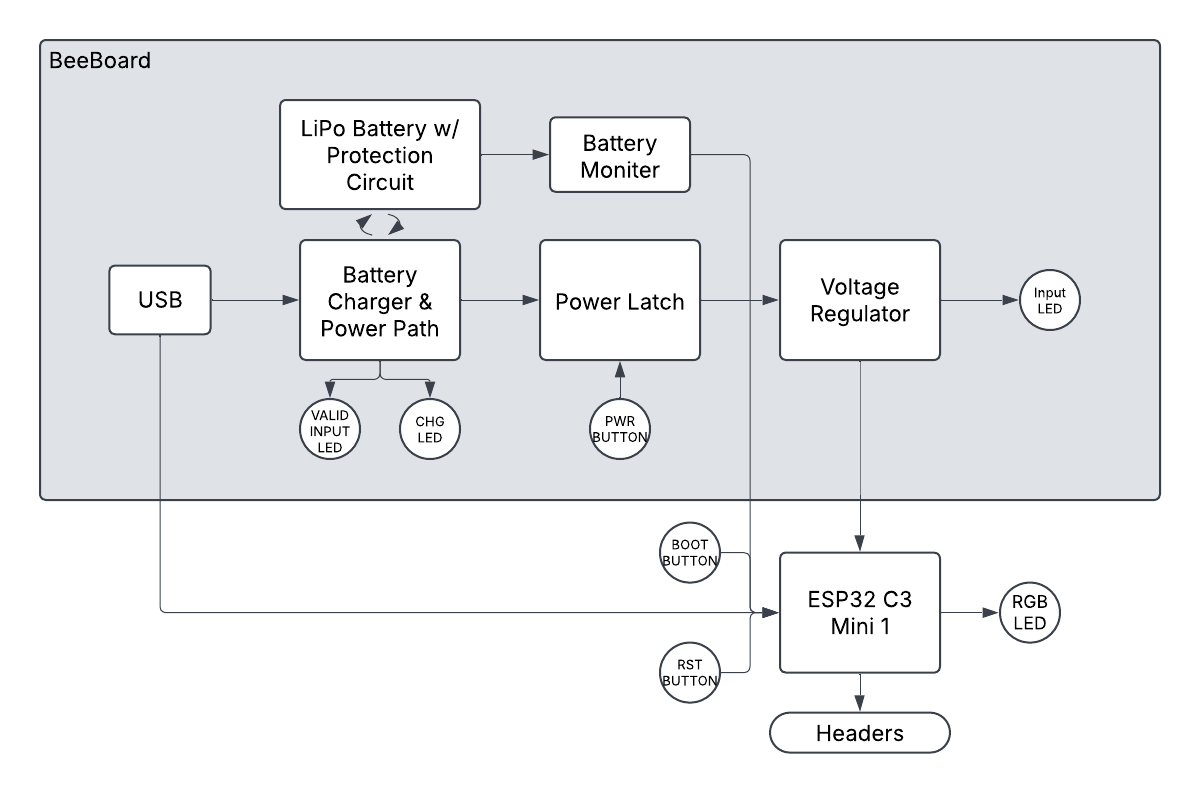
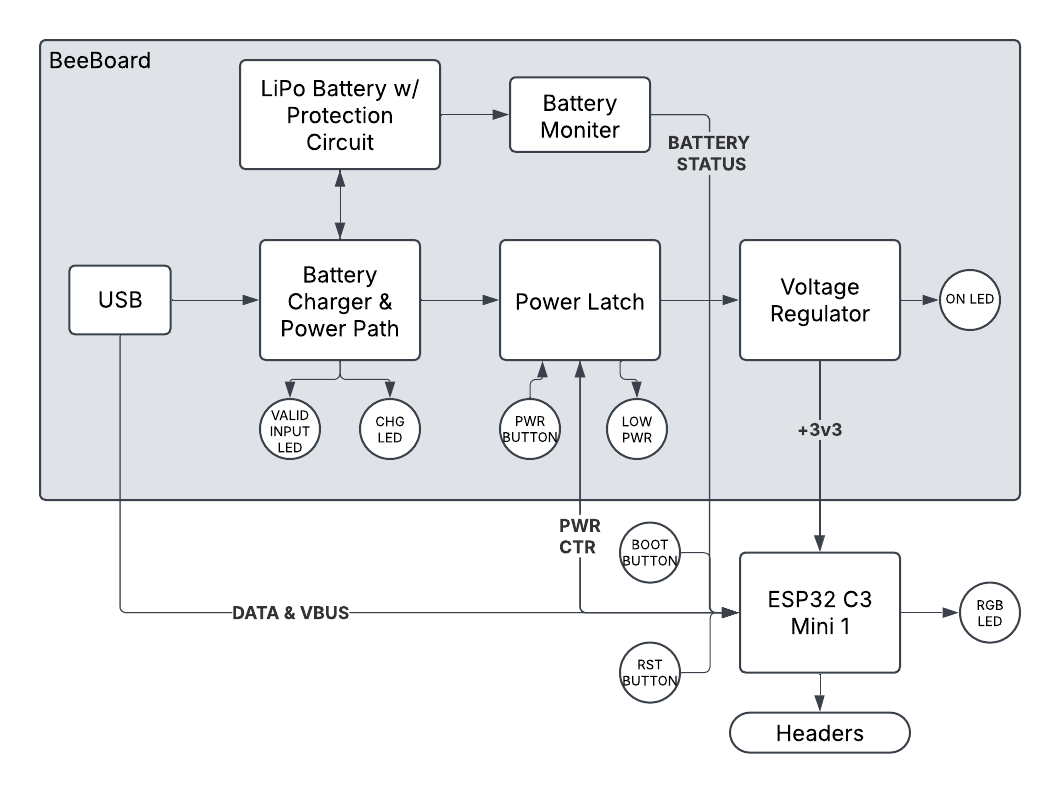
added images

diff --git a/README.md b/README.md
@@ -3,11 +3,29 @@
 This repo contains a generic power supply for ESP32 and other MCUs. This board includes: 
 
 1) Charging circuit with power path
-2) Power button (for turning on power manually and programmatically turning off power to save battery)
-3) Battery status bar 
+2) Smart power button (for manually/programmtically controlling power)
+3) Battery status  
 
 The purpose of this board is to make an MCU portable with precise battery control and monitoring.
 
 ## Block diagram
 
 ![BeeBoard block diagram](./images/BeeBoardBlockDiagram.png)
+
+## Schematic
+
+![BeeBoard schematic](./images/schematic/schematic.png)
+
+## PCB
+
+![BeeBoard PCB front](./images/pcb/front_pcb.png)
+
+
+![BeeBoard PCB back](./images/pcb/back_pcb.png)
+
+## 3D Model
+
+![BeeBoard 3D Model front](./images/pcb/3d_front.png)
+
+
+![BeeBoard 3D Model back](./images/pcb/3d_back.png)
